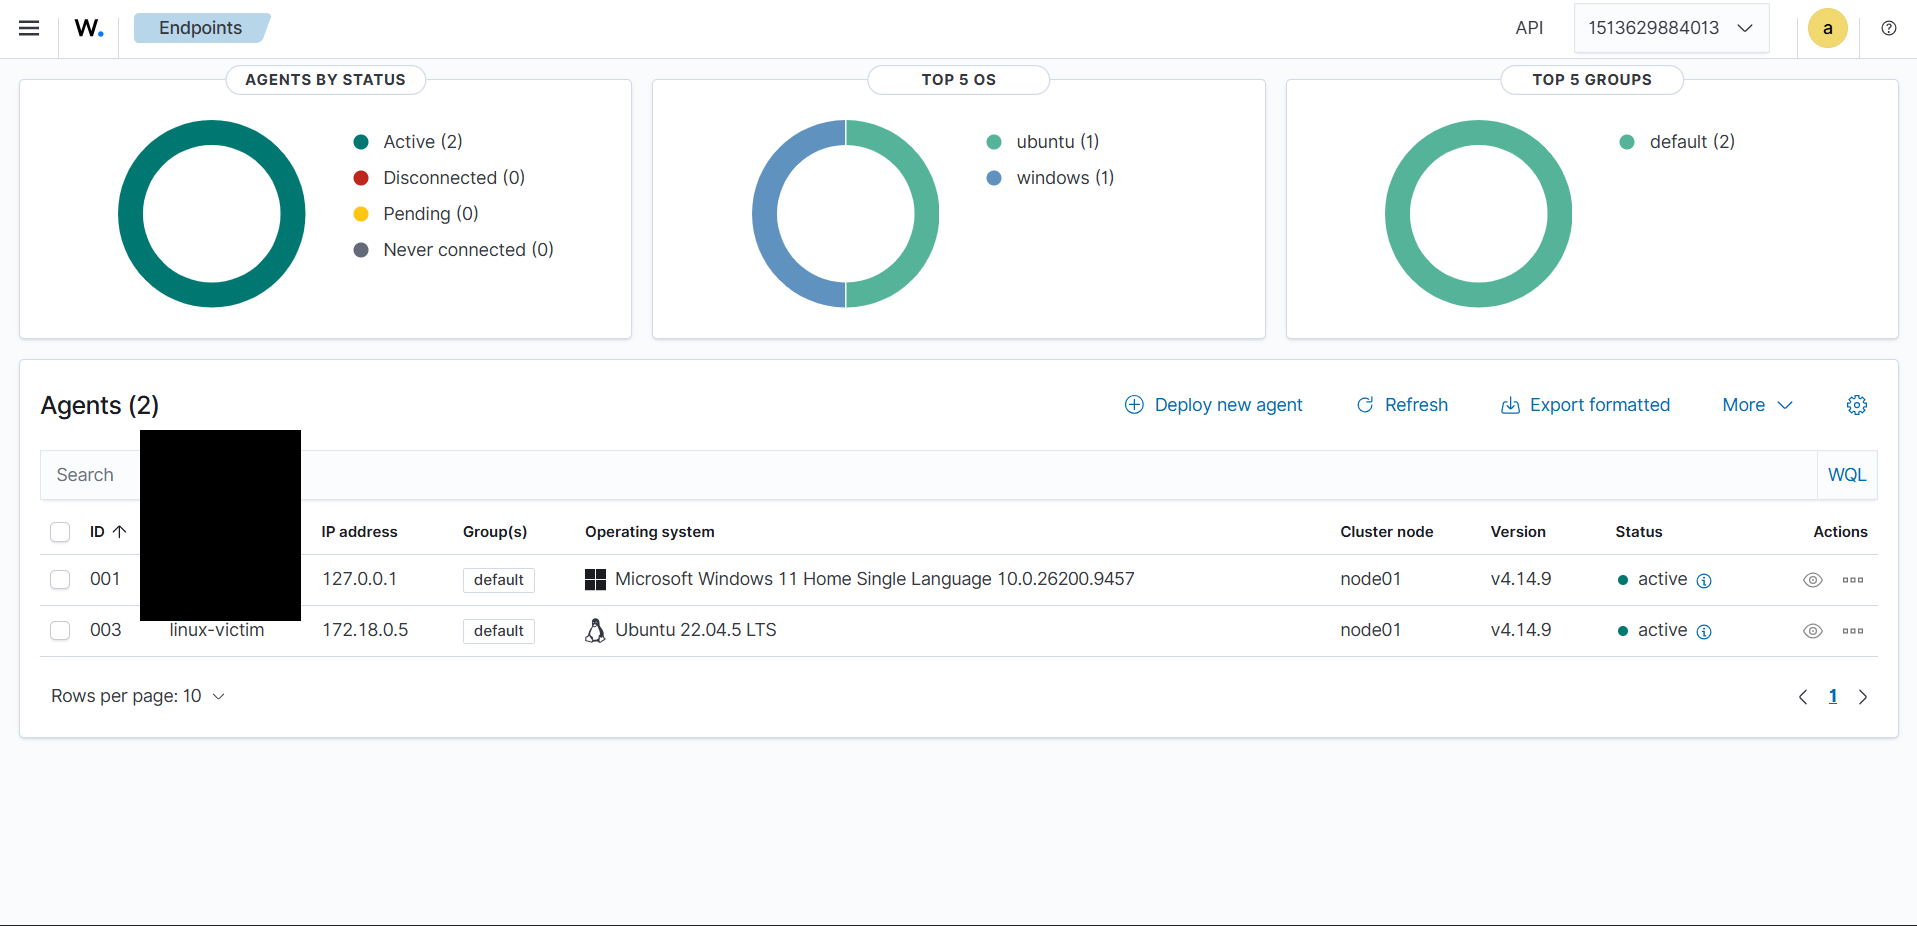
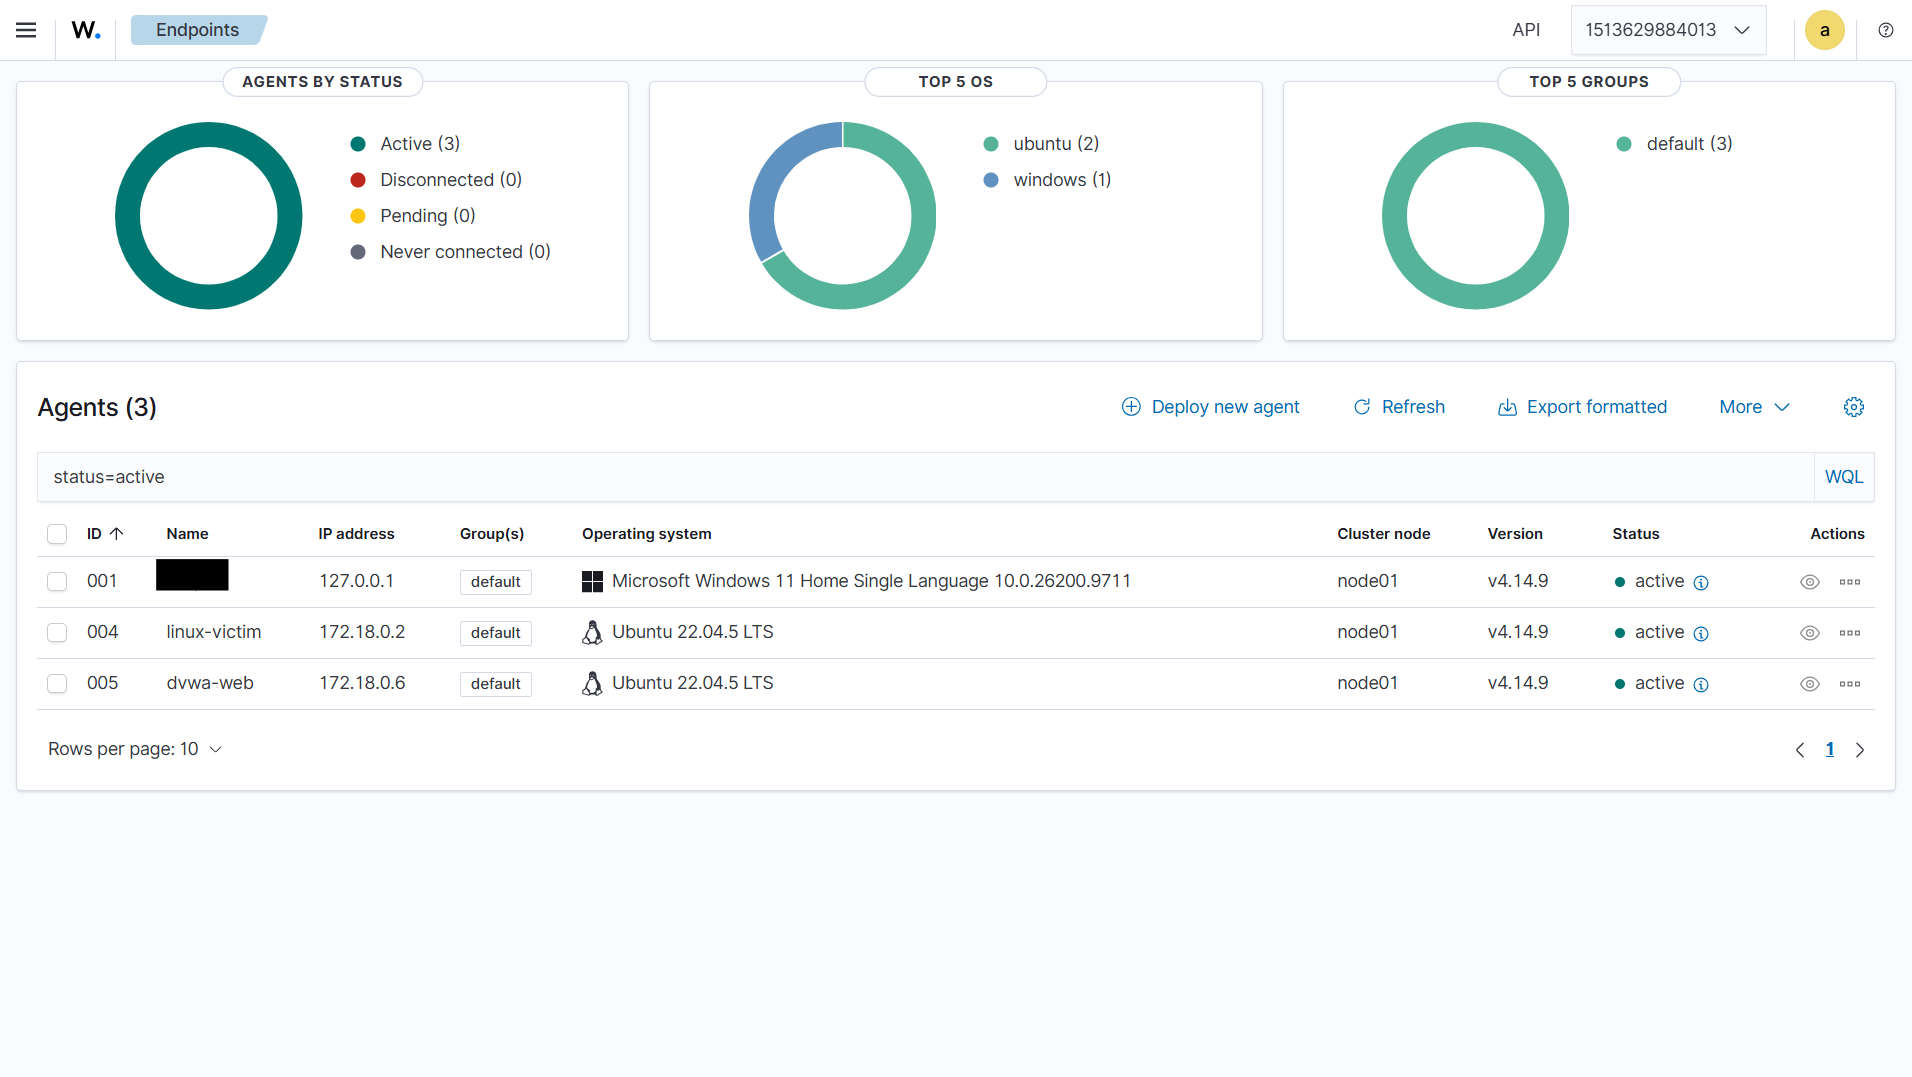
Document successful SQLi validation and success rule 31106

diff --git a/docs/06-LAB-JOURNAL.md b/docs/06-LAB-JOURNAL.md
@@ -486,6 +486,19 @@ Chronological journal of all technical actions in the home lab. Each entry recor
 - **Status:** Complete
 - **Follow-up:** Phase 6 ESP32 is optional/deferred; maintain and review the lab.
 
+### 23:45 WIB — Successful SQLi validation (DVWA)
+
+- **Phase:** 5C — validation
+- **Action:** Completed DVWA setup, logged in as admin, set security to low, and executed a UNION-based SQL injection.
+- **Payload:** `1' UNION SELECT user,password FROM users-- -`
+- **Result:**
+  - HTTP **200**, response size **5500 bytes** (previous attempts were 302/423).
+  - Returned users: `admin`, `gordonb`, `1337`, `pablo`, `smithy`, including password hashes.
+  - Wazuh rule **31106** "A web attack returned code 200 (success)" fired.
+  - Earlier 302 requests fired **31103** (attempt only).
+- **Status:** Complete
+- **Follow-up:** 31103 = attempt; 31106 = successful HTTP response. Wazuh does not parse the response body, so data-exfiltration proof requires the application response/DB logs.
+
 ---
 
 ## Entry Template

diff --git a/docs/01-PROJECT-REPORT.md b/docs/01-PROJECT-REPORT.md
@@ -351,7 +351,8 @@ Triage details and example cases are in `06-LAB-JOURNAL.md` and `triage-cases.cs
 ### Phase 5 — Attack → Detect → Triage (complete)
 
 - SSH brute force → rules 5503/2502; FIM persistence → 554/550; sudo failure → 5401.
-- DVWA scans → 31101/31151; SQLi → 31103; XSS → 31105; Nikto UA → 31508.
+- DVWA scans → 31101/31151; SQLi attempt → 31103; successful web attack (HTTP 200) → 31106; XSS → 31105; Nikto UA → 31508.
+- Successful UNION SQLi validation returned HTTP 200/5500 bytes with user/password data; Wazuh fired 31106. Response body is not parsed by Wazuh, so data-extraction proof comes from the application response.
 - Web tuning: 100230 was removed because it suppressed an authorized attack; 100231 remains for benign cache FIM.
 - MITRE ATT&CK and case documentation are included.
 

diff --git a/docs/02-ACTIVITY-TRACKING.md b/docs/02-ACTIVITY-TRACKING.md
@@ -52,6 +52,7 @@
 | 2026-10-31 | 5A | DVWA web scan | nmap/nikto/ffuf | No web alerts; Apache log not yet shipped | Gap |
 | 2026-10-31 | 5B | Apache log pipeline | `dvwa-logs` volume + agent 005 sidecar | Web alerts 31101/31151/31103/31105 | Complete |
 | 2026-10-31 | 5C | Tune web scan noise | 100230 removed; 100231 kept | 31101 active 737 → 738; 31508/31103/31105 remain | Complete |
+| 2026-10-31 | 5C | Successful SQLi validation | DVWA setup/login low; UNION SELECT | HTTP 200/5500; users + hashes returned; rule 31106 | Complete |
 | 2026-10-26 | Documentation | Report, tracking, lessons, triage template, SIEM comparison | `docs/` folder | Documents created | Complete |
 
 ---

diff --git a/docs/08-TUNING.md b/docs/08-TUNING.md
@@ -58,3 +58,10 @@
 - `31101` remains active: a normal-UA 404 increased the count from **737 to 738**.
 - Nikto user-agent triggers **31508** (blacklisted user agent); SQLi keeps firing **31103**, XSS keeps firing **31105**, and **31151** aggregates repeated scan errors.
 - `100231` remains active only for benign `/home/*/.cache/` FIM noise.
+
+## SQLi Success Signal
+
+- `31103` = SQL injection attempt (request pattern; may be 302/400).
+- `31106` = web attack returned HTTP 200 (successful response).
+- A successful UNION SQLi returned HTTP 200 and user/password data; Wazuh fired 31106.
+- Wazuh does not inspect the response body; exfiltration proof requires application/DB logs.
